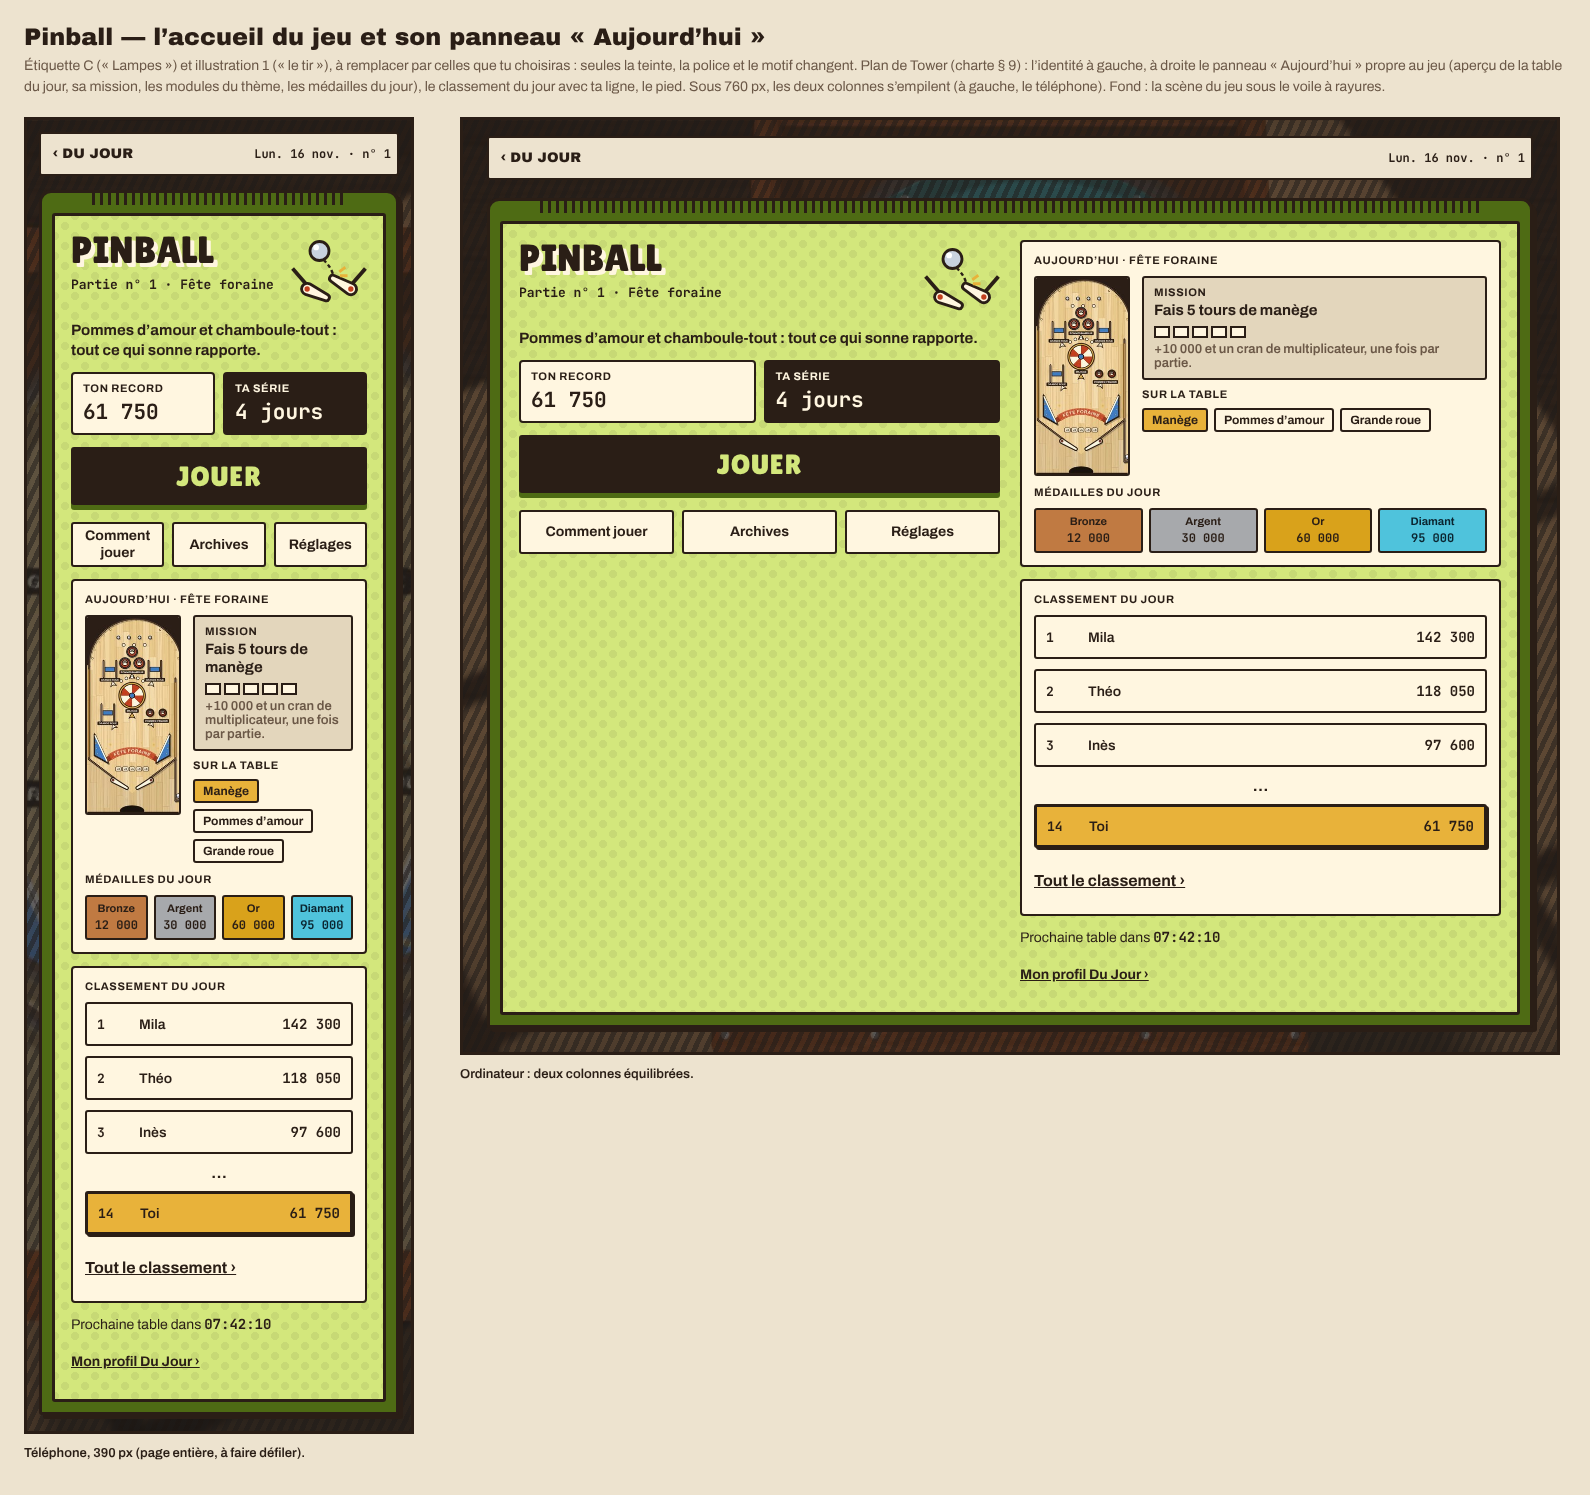
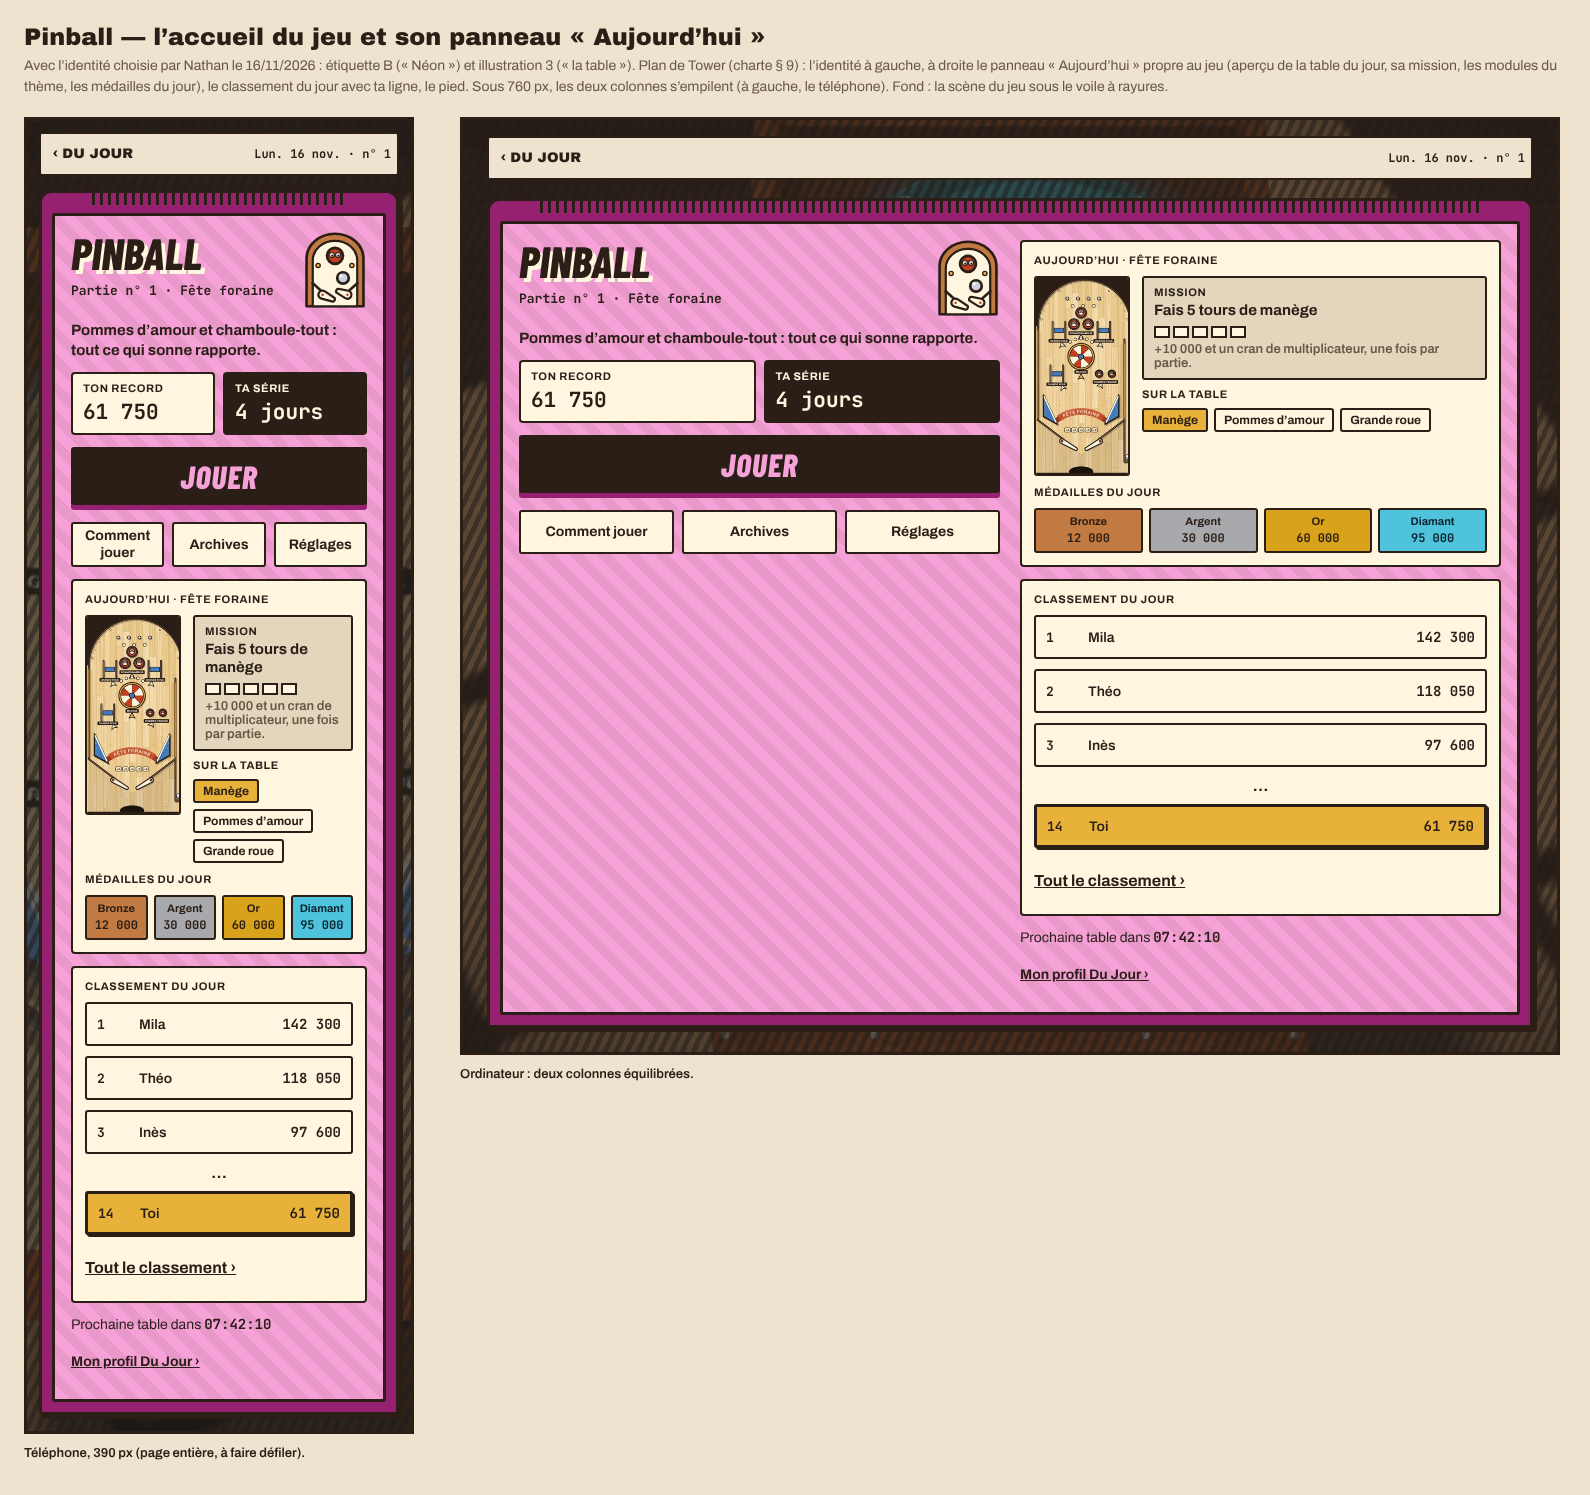
Lot PB5a : choix de Nathan (étiquette B, illustration 3), accueil et fin redessinés avec ce choix
Claude-Session: https://claude.ai/code/session_012eMWFzgy7c9r3avmVvwphC

Changed region(s): [[0.3082, 0.1231, 0.9862, 0.7077], [0.0, 0.1231, 0.2465, 0.9538], [0.0, 0.0308, 0.9862, 0.0615]]

diff --git a/docs/pinball/maquettes/pinball-accueil.html b/docs/pinball/maquettes/pinball-accueil.html
@@ -27,7 +27,7 @@
   --dj-ombre-cartouche:4px 4px 0 var(--dj-encre);--dj-ombre-bouton:2px 2px 0 var(--dj-encre);--dj-ombre-titre:4px 4px 0 var(--dj-papier);
   --dj-ombre-afficheur:inset 0 3px 0 var(--dj-ecran-ombre),inset 0 -2px 0 var(--dj-ecran-reflet);
   --dj-voile:repeating-linear-gradient(115deg,#1E1B19D9 0 5px,#1E1B19B3 5px 10px);
-  --jeu-fond:#D3E77C;--jeu-coque:#4E6B14;--jeu-police:'Lilita One','Archivo',sans-serif;--jeu-motif:radial-gradient(circle,#c7d975 0 4px,transparent 4px) 0 0/20px 20px,radial-gradient(circle,#c7d975 0 4px,transparent 4px) 10px 10px/20px 20px,#d3e77c;
+  --jeu-fond:#F6A2D8;--jeu-coque:#962170;--jeu-police:'Barlow Condensed','Archivo',sans-serif;--jeu-motif:repeating-linear-gradient(45deg,#f6a2d8 0 10px,#e899ca 10px 20px);
 }
 *{box-sizing:border-box}
 body{margin:0;background:var(--dj-creme);color:var(--dj-encre);font-family:var(--dj-police-texte)}
@@ -45,7 +45,7 @@ h1{font:400 24px/1.1 var(--dj-police-marque);margin:0 0 6px}
 .deux{grid-template-columns:1fr 1fr;gap:20px;align-items:start}
 .col{display:flex;flex-direction:column;gap:12px}
 .titre{display:flex;justify-content:space-between;align-items:flex-start;gap:8px}
-.titre h2{margin:0;font:400 38px/.95 var(--jeu-police);text-shadow:var(--dj-ombre-titre)}
+.titre h2{margin:0;font:italic 800 44px/.95 var(--jeu-police);text-shadow:var(--dj-ombre-titre)}
 .titre img{height:76px}
 .num{display:block;margin-top:8px;font:700 13px var(--dj-police-chiffres)}
 .replique{margin:0;font-weight:700;font-size:15px;line-height:1.35}
@@ -54,7 +54,7 @@ h1{font:400 24px/1.1 var(--dj-police-marque);margin:0 0 6px}
 .tuile.sombre{background:var(--dj-encre);color:var(--dj-papier)}
 .leg{display:block;font:700 11px var(--dj-police-texte);letter-spacing:.6px;text-transform:uppercase}
 .val{display:block;margin-top:4px;font:700 21px var(--dj-police-chiffres)}
-.jouer{height:58px;display:flex;align-items:center;justify-content:center;background:var(--dj-encre);color:var(--jeu-fond);border-radius:3px;font:400 28px var(--jeu-police);letter-spacing:1px;text-decoration:none;box-shadow:0 5px 0 var(--jeu-coque);margin-bottom:5px}
+.jouer{height:58px;display:flex;align-items:center;justify-content:center;background:var(--dj-encre);color:var(--jeu-fond);border-radius:3px;font:italic 800 32px var(--jeu-police);letter-spacing:1px;text-decoration:none;box-shadow:0 5px 0 var(--jeu-coque);margin-bottom:5px}
 .trois{display:grid;grid-template-columns:repeat(3,1fr);gap:8px}
 .sec{min-height:44px;display:flex;align-items:center;justify-content:center;text-align:center;padding:4px;background:var(--dj-papier);border:2px solid var(--dj-encre);border-radius:3px;font:700 14px/1.15 var(--dj-police-texte);color:var(--dj-encre);text-decoration:none}
 .panneau{padding:12px;background:var(--dj-papier);border:2px solid var(--dj-encre);border-radius:4px;display:flex;flex-direction:column;gap:10px}
@@ -82,11 +82,11 @@ h1{font:400 24px/1.1 var(--dj-police-marque);margin:0 0 6px}
 <body>
 <div style="padding:24px 24px 32px;width:1590px">
 <h1>Pinball — l’accueil du jeu et son panneau « Aujourd’hui »</h1>
-<p class="sous">Étiquette C (« Lampes ») et illustration 1 (« le tir »), à remplacer par celles que tu choisiras : seules la teinte, la police et le motif changent. Plan de Tower (charte § 9) : l’identité à gauche, à droite le panneau « Aujourd’hui » propre au jeu (aperçu de la table du jour, sa mission, les modules du thème, les médailles du jour), le classement du jour avec ta ligne, le pied. Sous 760 px, les deux colonnes s’empilent (à gauche, le téléphone). Fond : la scène du jeu sous le voile à rayures.</p>
+<p class="sous">Avec l’identité choisie par Nathan le 16/11/2026 : étiquette B (« Néon ») et illustration 3 (« la table »). Plan de Tower (charte § 9) : l’identité à gauche, à droite le panneau « Aujourd’hui » propre au jeu (aperçu de la table du jour, sa mission, les modules du thème, les médailles du jour), le classement du jour avec ta ligne, le pied. Sous 760 px, les deux colonnes s’empilent (à gauche, le téléphone). Fond : la scène du jeu sous le voile à rayures.</p>
 <div style="display:grid;grid-template-columns:396px 1100px;gap:40px;align-items:start">
 <div><div class="ecran" style="width:390px"><div class="barrejeu"><a class="retour" href="#">‹ DU JOUR</a><span class="date">Lun. 16 nov. · n° 1</span></div>
 <div class="coque"><div class="stries"></div><div class="etiq"><div class="col">
-<div class="titre"><div><h2>PINBALL</h2><span class="num">Partie n° 1 · Fête foraine</span></div><img src="illustration-1-le-tir.svg" alt=""></div>
+<div class="titre"><div><h2>PINBALL</h2><span class="num">Partie n° 1 · Fête foraine</span></div><img src="illustration-3-la-table.svg" alt=""></div>
 <p class="replique">Pommes d’amour et chamboule-tout : tout ce qui sonne rapporte.</p>
 <div class="tuiles"><div class="tuile"><span class="leg">Ton record</span><span class="val">61 750</span></div><div class="tuile sombre"><span class="leg">Ta série</span><span class="val">4 jours</span></div></div>
 <a class="jouer" href="#">JOUER</a>
@@ -111,7 +111,7 @@ h1{font:400 24px/1.1 var(--dj-police-marque);margin:0 0 6px}
 <div class="pied"><span>Prochaine table dans <span class="mono">07:42:10</span></span><a href="#">Mon profil Du Jour ›</a></div></div></div></div><p class="note">Téléphone, 390 px (page entière, à faire défiler).</p></div>
 <div><div class="ecran" style="width:1100px;background-image:url(fonds/bureau.jpg)"><div class="barrejeu" style="margin:16px 24px 0"><a class="retour" href="#">‹ DU JOUR</a><span class="date">Lun. 16 nov. · n° 1</span></div>
 <div class="coque" style="margin:18px 24px 24px"><div class="stries"></div><div class="etiq deux"><div class="col">
-<div class="titre"><div><h2>PINBALL</h2><span class="num">Partie n° 1 · Fête foraine</span></div><img src="illustration-1-le-tir.svg" alt=""></div>
+<div class="titre"><div><h2>PINBALL</h2><span class="num">Partie n° 1 · Fête foraine</span></div><img src="illustration-3-la-table.svg" alt=""></div>
 <p class="replique">Pommes d’amour et chamboule-tout : tout ce qui sonne rapporte.</p>
 <div class="tuiles"><div class="tuile"><span class="leg">Ton record</span><span class="val">61 750</span></div><div class="tuile sombre"><span class="leg">Ta série</span><span class="val">4 jours</span></div></div>
 <a class="jouer" href="#">JOUER</a>

diff --git a/docs/pinball/maquettes/pinball-fin.html b/docs/pinball/maquettes/pinball-fin.html
@@ -27,7 +27,7 @@
   --dj-ombre-cartouche:4px 4px 0 var(--dj-encre);--dj-ombre-bouton:2px 2px 0 var(--dj-encre);--dj-ombre-titre:4px 4px 0 var(--dj-papier);
   --dj-ombre-afficheur:inset 0 3px 0 var(--dj-ecran-ombre),inset 0 -2px 0 var(--dj-ecran-reflet);
   --dj-voile:repeating-linear-gradient(115deg,#1E1B19D9 0 5px,#1E1B19B3 5px 10px);
-  --jeu-fond:#D3E77C;--jeu-coque:#4E6B14;--jeu-police:'Lilita One','Archivo',sans-serif;--jeu-motif:radial-gradient(circle,#c7d975 0 4px,transparent 4px) 0 0/20px 20px,radial-gradient(circle,#c7d975 0 4px,transparent 4px) 10px 10px/20px 20px,#d3e77c;
+  --jeu-fond:#F6A2D8;--jeu-coque:#962170;--jeu-police:'Barlow Condensed','Archivo',sans-serif;--jeu-motif:repeating-linear-gradient(45deg,#f6a2d8 0 10px,#e899ca 10px 20px);
 }
 *{box-sizing:border-box}
 body{margin:0;background:var(--dj-creme);color:var(--dj-encre);font-family:var(--dj-police-texte)}
@@ -45,7 +45,7 @@ h1{font:400 24px/1.1 var(--dj-police-marque);margin:0 0 6px}
 .deux{grid-template-columns:1fr 1fr;gap:20px;align-items:start}
 .col{display:flex;flex-direction:column;gap:12px}
 .titre{display:flex;justify-content:space-between;align-items:flex-start;gap:8px}
-.titre h2{margin:0;font:400 38px/.95 var(--jeu-police);text-shadow:var(--dj-ombre-titre)}
+.titre h2{margin:0;font:italic 800 44px/.95 var(--jeu-police);text-shadow:var(--dj-ombre-titre)}
 .titre img{height:76px}
 .num{display:block;margin-top:8px;font:700 13px var(--dj-police-chiffres)}
 .replique{margin:0;font-weight:700;font-size:15px;line-height:1.35}
@@ -54,7 +54,7 @@ h1{font:400 24px/1.1 var(--dj-police-marque);margin:0 0 6px}
 .tuile.sombre{background:var(--dj-encre);color:var(--dj-papier)}
 .leg{display:block;font:700 11px var(--dj-police-texte);letter-spacing:.6px;text-transform:uppercase}
 .val{display:block;margin-top:4px;font:700 21px var(--dj-police-chiffres)}
-.jouer{height:58px;display:flex;align-items:center;justify-content:center;background:var(--dj-encre);color:var(--jeu-fond);border-radius:3px;font:400 28px var(--jeu-police);letter-spacing:1px;text-decoration:none;box-shadow:0 5px 0 var(--jeu-coque);margin-bottom:5px}
+.jouer{height:58px;display:flex;align-items:center;justify-content:center;background:var(--dj-encre);color:var(--jeu-fond);border-radius:3px;font:italic 800 32px var(--jeu-police);letter-spacing:1px;text-decoration:none;box-shadow:0 5px 0 var(--jeu-coque);margin-bottom:5px}
 .trois{display:grid;grid-template-columns:repeat(3,1fr);gap:8px}
 .sec{min-height:44px;display:flex;align-items:center;justify-content:center;text-align:center;padding:4px;background:var(--dj-papier);border:2px solid var(--dj-encre);border-radius:3px;font:700 14px/1.15 var(--dj-police-texte);color:var(--dj-encre);text-decoration:none}
 .panneau{padding:12px;background:var(--dj-papier);border:2px solid var(--dj-encre);border-radius:4px;display:flex;flex-direction:column;gap:10px}
@@ -79,7 +79,7 @@ h1{font:400 24px/1.1 var(--dj-police-marque);margin:0 0 6px}
 .note{font:600 13px/1.4 var(--dj-police-texte);margin:10px 0 0}
 
 .ecran.fin{background-image:url(fonds/fin.jpg);height:844px}
-.titrefin{margin:0;font:400 30px/1 var(--jeu-police);text-shadow:var(--dj-ombre-titre)}
+.titrefin{margin:0;font:italic 800 36px/1 var(--jeu-police);text-shadow:var(--dj-ombre-titre)}
 .resume{padding:12px 14px;background:var(--dj-papier);border:3px solid var(--dj-encre);border-radius:4px;display:flex;flex-direction:column;align-items:center;gap:6px;text-align:center}
 .score{margin:0;font:700 52px/1 var(--dj-police-chiffres)}
 .rangfin{font-weight:700;font-size:15px}
@@ -97,6 +97,7 @@ h1{font:400 24px/1.1 var(--dj-police-marque);margin:0 0 6px}
 <body>
 <div style="padding:24px 24px 32px;width:860px">
 <h1>Pinball — l’écran de fin (390 × 844)</h1>
+<p class="sous">Avec l’identité choisie par Nathan le 16/11/2026 : étiquette B (« Néon »).</p>
 <div style="display:grid;grid-template-columns:396px 1fr;gap:28px;align-items:start">
 <div><div class="ecran fin" style="width:390px"><div class="barrejeu"><a class="retour" href="#">‹ DU JOUR</a><span class="date">Lun. 16 nov. · n° 1</span></div>
 <div class="coque"><div class="stries"></div><div class="etiq">

diff --git a/docs/pinball/maquettes/README.md b/docs/pinball/maquettes/README.md
@@ -1,6 +1,11 @@
 # Lot PB5a — maquettes de l'identité, du HUD et de l'accueil de Pinball
 
-**État : en attente du choix de Nathan.** Ce lot n'écrit que dans `docs/pinball/maquettes/` : aucun code de jeu ni d'interface. « Pour les joueurs » : `rien`.
+**État : identité choisie par Nathan le 16/11/2026 — étiquette B (« Néon ») et illustration 3 (« la table »).** Le HUD, le panneau « Aujourd'hui » et l'écran de fin attendent encore sa réponse (questions en bas). Ce lot n'écrit que dans `docs/pinball/maquettes/` : aucun code de jeu ni d'interface. « Pour les joueurs » : `rien`.
+
+## Le choix, à reporter dans la fiche au PB5b
+- `etiquette` : `fond` `#F6A2D8`, `coque` `#962170`, `police` `"Barlow Condensed", "Archivo", sans-serif` (titres et boutons du jeu en 800 italique, comme Track).
+- `identite` : `police` `Barlow Condensed`, `motif` `rayures`, `illustration` `apps/pinball/public/illustration.svg` (copie de `illustration-3-la-table.svg`), `aujourdhui` `true` (proposé, à confirmer).
+- Coût : rien hors des zones du jeu (police hébergée et déjà chargée par le portail, motif existant). L'accueil et la fin (`pinball-accueil.*`, `pinball-fin.*`) sont redessinés avec ce choix.
 
 ## À regarder, dans cet ordre (les PNG s'ouvrent sur le téléphone)
 | # | Quoi | Capture | Page |
@@ -56,7 +61,7 @@ Score de la partie, ce qu'il vaut (« Nouveau record » / « Pas mieux que ton r
 - Rappel (déjà au `docs/pinball/consignes.md`) : les mentions légales doivent nommer les clés `pinball:*` avant que le catalogue perde son dernier « À remplacer » — un lot de plateforme.
 
 ## Questions pour Nathan
-1. Étiquette **A, B ou C** (et, pour C, motif « pastilles » ou « uni ») ?
-2. Illustration **1, 2 ou 3** ?
+1. ~~Étiquette~~ : **B** (16/11). ~~Illustration~~ : **3** (16/11).
+2. Le panneau « Aujourd'hui » activé, et l'écran de fin : d'accord ?
 3. Le HUD portrait te va-t-il ? En particulier : **la mission en bas** (loin du score) ; **les billes en ronds** plutôt qu'un chiffre « Billes : 2 ».
 4. Le plein écran : en paysage et sur bureau seulement (comme proposé), ou aussi en portrait ?
